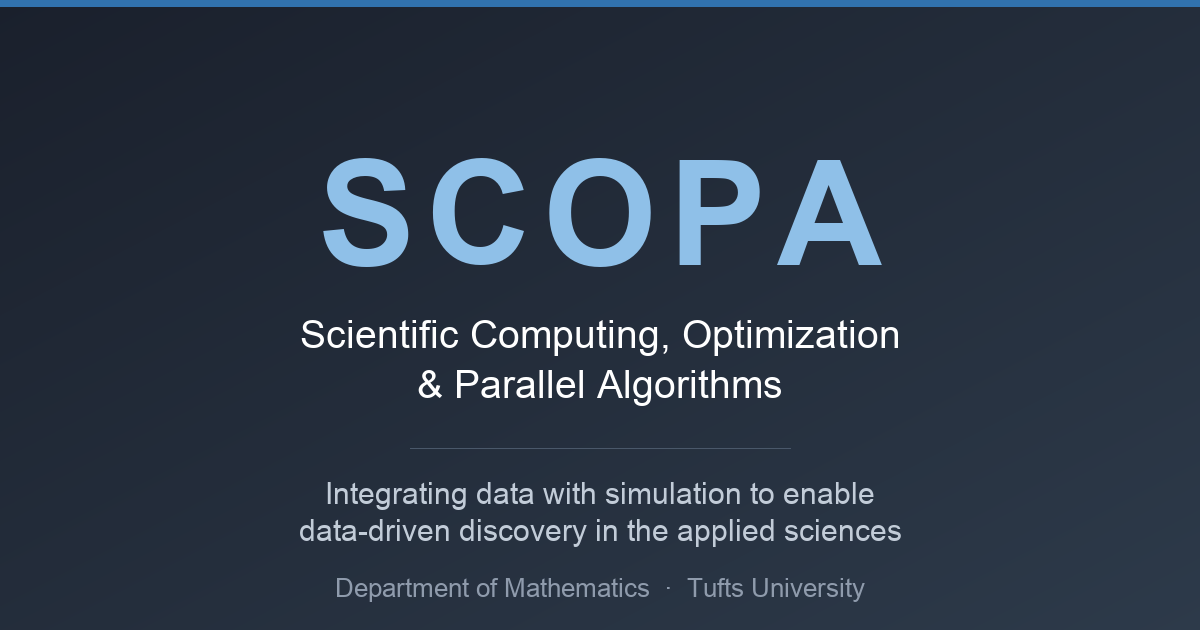
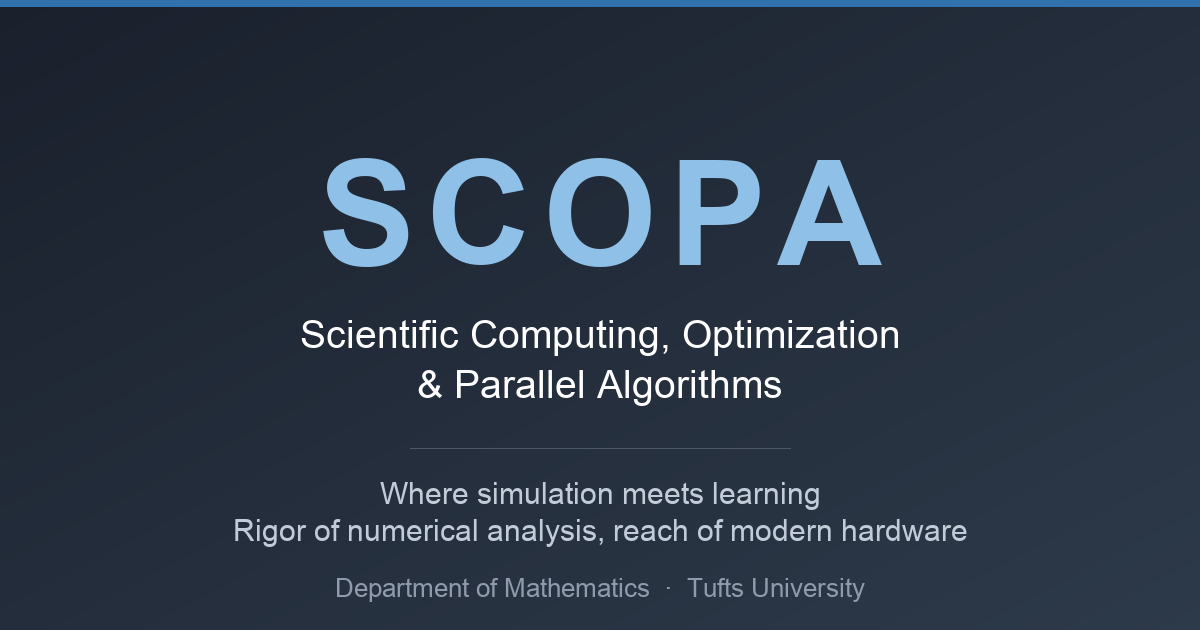
updated

Changed region(s): [[0.185, 0.754, 0.8017, 0.8746]]

diff --git a/index.md b/index.md
@@ -6,14 +6,14 @@ permalink: /
 
 <div class="hero">
 <h1>SCOPA Lab</h1>
-<p>Integrating <span class="hero-accent">data</span> with <span class="hero-accent">simulation</span> to enable data-driven discovery in the applied sciences.</p>
+<p>Where <span class="hero-accent">simulation</span> meets <span class="hero-accent">learning</span> &mdash; algorithms with the rigor of numerical analysis and the reach of modern hardware to enable data-driven discovery.</p>
 </div>
 
 ## Overview
 
-The **Scientific Computing, Optimization, and Parallel Algorithms** (SCOPA) lab is part of the [Department of Mathematics](https://math.tufts.edu) at Tufts University.
+The **Scientific Computing, Optimization & Parallel Algorithms** (SCOPA) lab is part of the [Department of Mathematics](https://math.tufts.edu) at Tufts University.
 
-Our goal is the design of principled and scalable algorithms at the interface of machine learning, optimization, and scientific computing that integrate *data* with *simulation* to enable data-driven discovery in the applied sciences. We are interested in methods that combine the interpretability and predictive power of mechanistic models with the flexibility of learning, and in the numerical analysis that makes them trustworthy --- stability, structure preservation, and a rigorous accounting of uncertainty. Our work is driven by applications in medical imaging and the life sciences, and much of it is released as open-source software for GPU and supercomputing platforms.
+Our goal is the design of principled and scalable algorithms at the interface of machine learning, optimization, and scientific computing. We are interested in methods that combine the interpretability and predictive power of mechanistic models with the flexibility of learning, and in the numerical analysis that makes them trustworthy --- stability, structure preservation, and a rigorous accounting of uncertainty. Our work is driven by applications in medical imaging and the life sciences, and much of it is released as open-source software for GPU and supercomputing platforms.
 
 ## Research Areas
 
